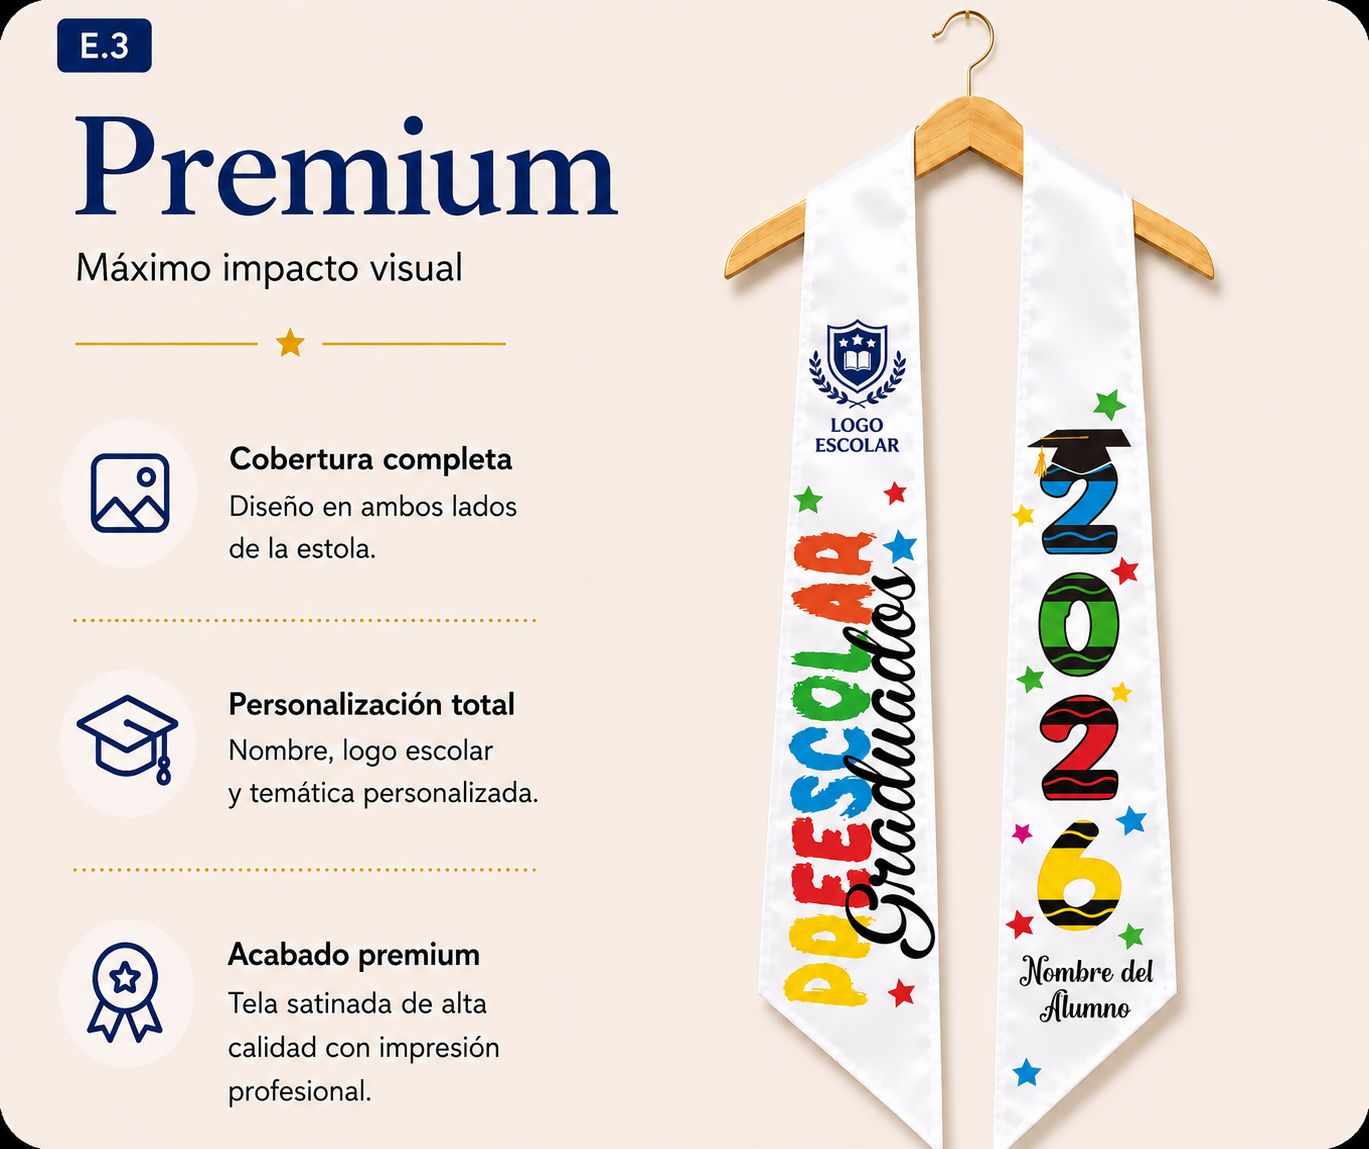
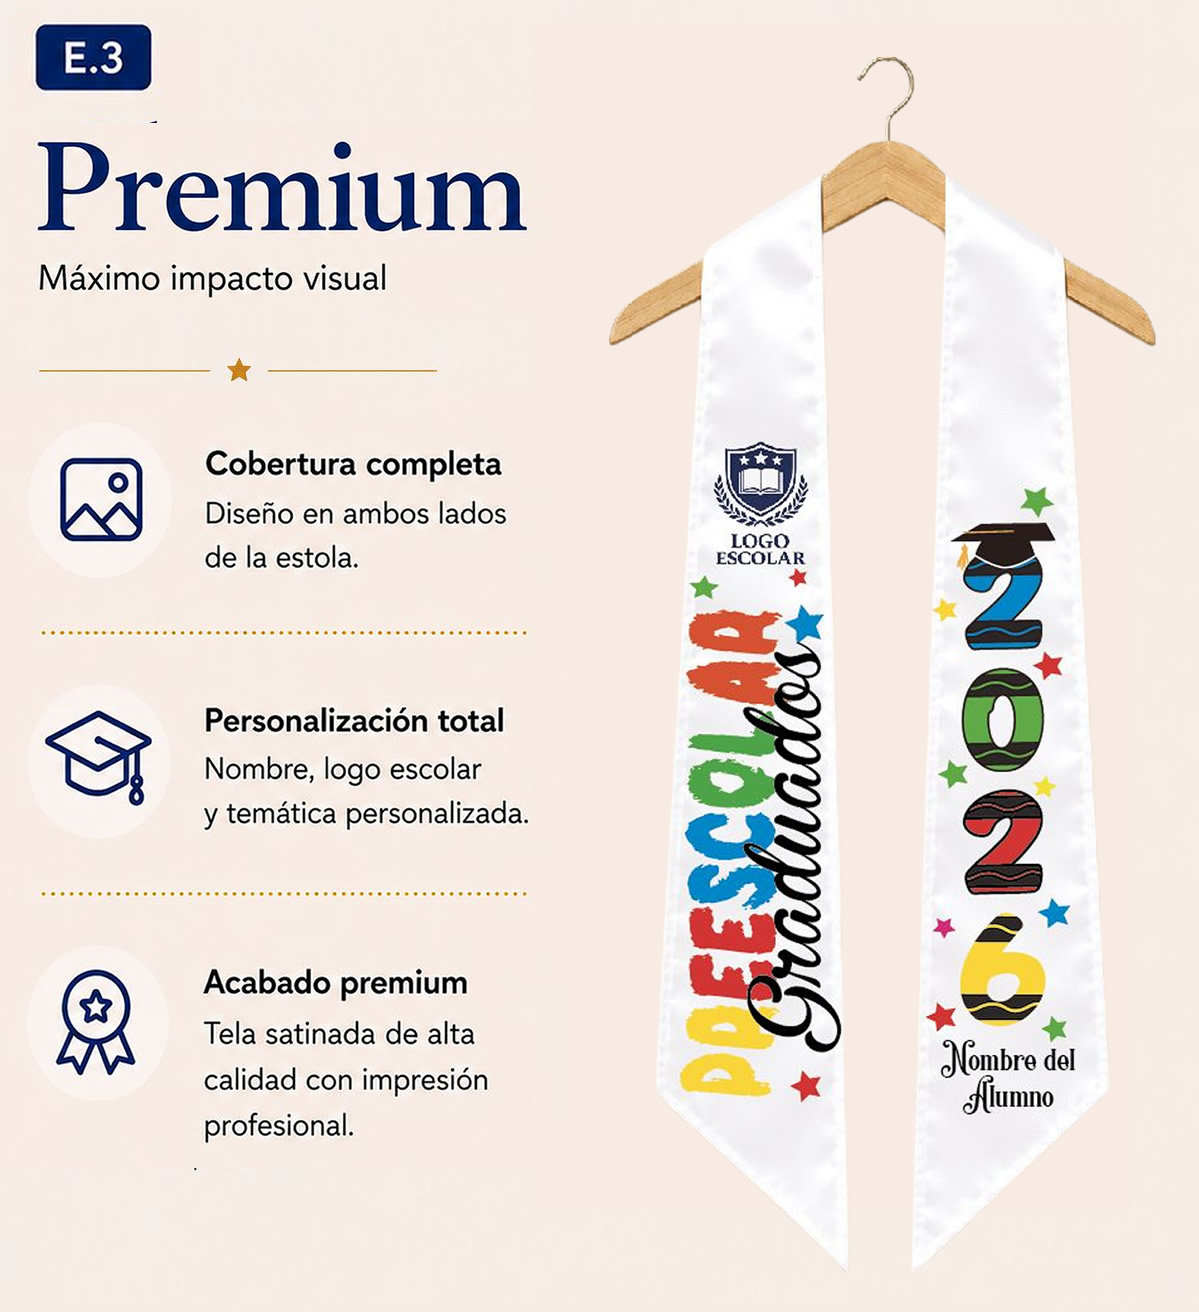
fix: object-contain for venta images to avoid cropping

diff --git a/src/components/quoter/StepConfig.tsx b/src/components/quoter/StepConfig.tsx
@@ -344,18 +344,29 @@ export function StepConfig({
 
               <AnimatePresence mode="wait">
                 <motion.div
-                  key={showcaseMedia.src + (showcaseMedia.mask ? stolaColor : "")}
+                  key={showcaseMedia.src + (stolaColor !== "blanco" ? stolaColor : "")}
                   initial={{ opacity: 0, filter: "blur(8px)" }}
                   animate={{ opacity: 1, filter: "blur(0px)" }}
                   exit={{ opacity: 0, filter: "blur(8px)" }}
                   transition={{ duration: 0.4, ease: "easeInOut" }}
-                  className="relative max-h-full aspect-[816/1118] flex items-center justify-center z-10"
+                  className={cn(
+                    "relative max-h-full flex items-center justify-center z-10",
+                    service === "venta" ? "w-full h-full" : "aspect-[816/1118]"
+                  )}
                 >
                   <img
                     src={showcaseMedia.src}
                     alt="Toga de graduación premium"
-                    className="w-full h-full object-contain"
+                    className={cn(
+                      "w-full h-full object-contain"
+                    )}
                   />
+                  {service === "venta" && stolaColor !== "blanco" && (
+                    <div 
+                      className="absolute inset-0 mix-blend-multiply pointer-events-none" 
+                      style={{ backgroundColor: STOLA_COLORS.find(c => c.id === stolaColor)?.hex || "transparent" }} 
+                    />
+                  )}
                   {showcaseMedia.mask && stolaColor !== "blanco" && (() => {
                      const activeStola = STOLA_COLORS.find((c) => c.id === stolaColor);
                      const stolaBg = (activeStola as any)?.gradient || activeStola?.hex || "transparent";

diff --git a/src/components/quoter/StepService.tsx b/src/components/quoter/StepService.tsx
@@ -44,9 +44,7 @@ export function StepService({ value, onChange, level }: Props) {
             ariaLabel="Venta"
             className="py-10"
           >
-            <span className="absolute top-4 right-4 text-[10px] uppercase tracking-[0.18em] text-emerald-700 bg-emerald-50 border border-emerald-200 rounded-full px-2.5 py-1 font-bold">
-              Disponible
-            </span>
+
             <ShoppingBag className="h-8 w-8 text-navy" strokeWidth={1.5} />
             <h3 className="font-display text-2xl mt-5">Venta</h3>
             <p className="mt-2 text-sm text-muted-foreground">